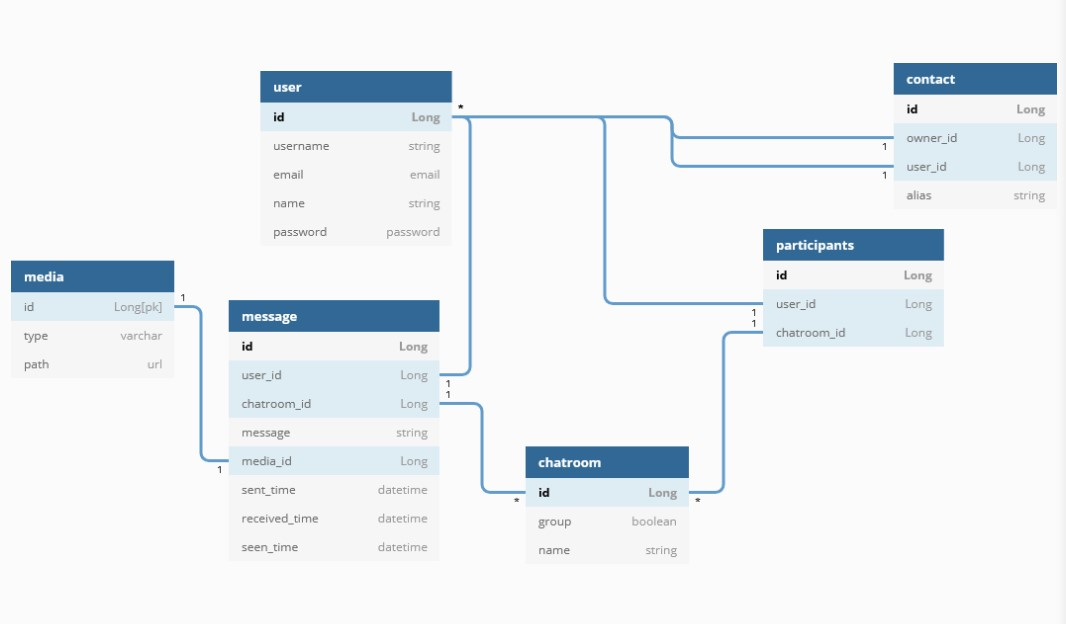
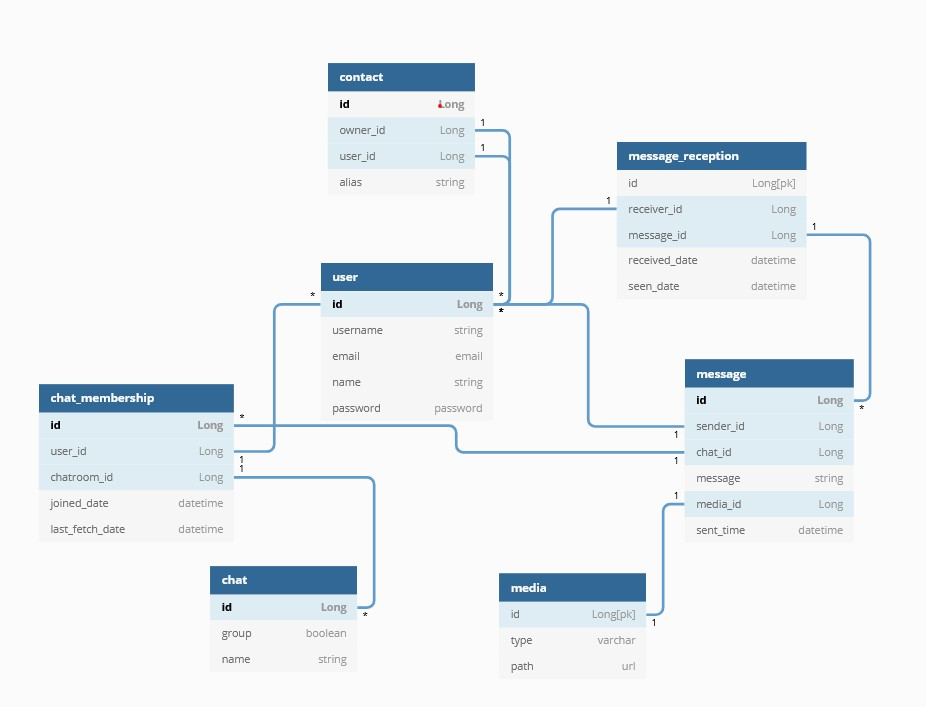
cambios menores

Changed region(s): [[0.0, 0.0609, 0.9978, 0.9439], [0.2419, 0.274, 0.3024, 0.3349], [0.2419, 0.3654, 0.3024, 0.3958]]

diff --git a/backend/nuntius/src/main/java/com/leandrosve/nuntius/service/MessageService.java b/backend/nuntius/src/main/java/com/leandrosve/nuntius/service/MessageService.java
@@ -1,16 +1,20 @@
 package com.leandrosve.nuntius.service;
 
 import java.util.ArrayList;
+import java.util.Date;
 import java.util.List;
 
 import com.leandrosve.nuntius.beans.MessageDTO;
+import com.leandrosve.nuntius.beans.MessageDetailsDTO;
 import com.leandrosve.nuntius.beans.MessageReceptionDTO;
 import com.leandrosve.nuntius.exception.AccessDeniedException;
 import com.leandrosve.nuntius.exception.chat.ChatNotFoundException;
 import com.leandrosve.nuntius.exception.message.MessageNotFoundException;
 import com.leandrosve.nuntius.model.Chat;
+import com.leandrosve.nuntius.model.ChatMembership;
 import com.leandrosve.nuntius.model.Message;
 import com.leandrosve.nuntius.model.User;
+import com.leandrosve.nuntius.repository.IChatMembershipRepository;
 import com.leandrosve.nuntius.repository.IChatRepository;
 import com.leandrosve.nuntius.repository.IMessageRepository;
 import com.leandrosve.nuntius.util.AuthUtil;
@@ -26,6 +30,10 @@ public class MessageService {
 
     @Autowired
     IChatRepository chatRepository;
+
+    
+    @Autowired
+    IChatMembershipRepository chatMembershipRepository;
 
     
     @Autowired
@@ -53,9 +61,16 @@ public class MessageService {
 
     public List<MessageDTO> getMessages(Long chatId){
         final User currentUser = authUtil.getCurrentUser(); 
-        final Chat chat = chatRepository.findById(chatId).orElseThrow(() -> new MessageNotFoundException());
+        final Chat chat = chatRepository.findById(chatId).orElseThrow(() -> new ChatNotFoundException());
         if(!chat.isUserMember(currentUser.getId())){throw new AccessDeniedException();};
-        final List<Message> messages = chat.getMessages();
+
+        ChatMembership membership = chat.getMembership(currentUser);      
+
+        membership.setLastFetchTime(new Date());
+        chatMembershipRepository.save(membership);
+
+       // final List<Message> messages = chat.getMessages();
+       final List<Message> messages = messageRepository.findAllByChatIdAndSentTimeLessThan(chatId, new Date());
         List<MessageDTO> messageDTOs = new ArrayList<MessageDTO>();
         if(messages != null && messages.size() > 0){
             messages.forEach((m) -> messageDTOs.add(mapToDTO(m)));
@@ -74,9 +89,11 @@ public class MessageService {
 
     public MessageDTO mapToDTO(Message message){
         MessageDTO messageDTO = new MessageDTO(message.getId(), message.getSender().getId(), message.getText(), message.getSentTime());
-        List<MessageReceptionDTO> details = new ArrayList<MessageReceptionDTO>();
-        message.getReceivers().forEach((mr) -> details.add(new MessageReceptionDTO(mr.getUser().getId(), mr.getSeenTime(), mr.getReceivedTime())));
-        messageDTO.setDetails(details);
+        List<MessageReceptionDTO> receptions = new ArrayList<MessageReceptionDTO>();
+        message.getReceivers().forEach((mr) -> receptions.add(new MessageReceptionDTO(mr.getUser().getId(), mr.getSeenTime(), mr.getReceivedTime())));
+        if(messageDTO.getUserId() == authUtil.getCurrentUser().getId()){
+            messageDTO.setDetails(new MessageDetailsDTO(receptions,message.isReceived(),message.isSeen()));
+        }
         return messageDTO;
     }
     

diff --git a/backend/nuntius/src/test/java/com/leandrosve/nuntius/NuntiusAppTests.java b/backend/nuntius/src/test/java/com/leandrosve/nuntius/NuntiusAppTests.java
@@ -2,9 +2,19 @@ package com.leandrosve.nuntius;
 
 import static org.junit.jupiter.api.Assertions.assertTrue;
 
+import java.util.ArrayList;
+import java.util.Date;
+import java.util.List;
+
+import com.leandrosve.nuntius.model.Chat;
+import com.leandrosve.nuntius.model.Message;
 import com.leandrosve.nuntius.model.User;
+import com.leandrosve.nuntius.repository.IChatRepository;
+import com.leandrosve.nuntius.repository.IMessageRepository;
 import com.leandrosve.nuntius.repository.IUserRepository;
 
+import org.junit.jupiter.api.BeforeAll;
+import org.junit.jupiter.api.BeforeEach;
 import org.junit.jupiter.api.Test;
 import org.springframework.beans.factory.annotation.Autowired;
 import org.springframework.boot.test.context.SpringBootTest;
@@ -15,7 +25,11 @@ import org.springframework.security.crypto.bcrypt.BCryptPasswordEncoder;
 class NuntiusAppTests {
 	
 	@Autowired
-	IUserRepository users;
+	IUserRepository userRepository;
+	@Autowired
+	IMessageRepository messageRepository;
+	@Autowired 
+	IChatRepository chatRepository;
 
 	@Autowired
 	BCryptPasswordEncoder encoder;
@@ -26,8 +40,26 @@ class NuntiusAppTests {
 		u.setEmail("leandro2@gmail.com");
 		u.setName("leandro2");
 		u.setPassword(encoder.encode("123456"));
-		User savedUser = users.save(u);
+		User savedUser = userRepository.save(u);
 		assertTrue(savedUser.getUsername().equals("leandro2"));
+	}
+
+	@BeforeEach
+    void setUpTestDataWithinTransaction() {
+		
+		Chat chat = new Chat(null, null, false, null);
+		chat.setId(420);
+		List<Message> messages = new ArrayList<Message>();
+		Message message = new Message(null, chat, "adasdasd");
+		messages.add(message);
+		chat.setMessages(messages);
+		chatRepository.save(chat);
+	}
+	
+	@Test
+	void getMessagesTest() {
+		List<Message> messages = messageRepository.findAllByChatIdAndSentTimeLessThan(420, new Date());
+		assertTrue(messages.size() > 0);
 	}
 
 }

diff --git a/backend/nuntius/src/main/java/com/leandrosve/nuntius/beans/MessageDetailsDTO.java b/backend/nuntius/src/main/java/com/leandrosve/nuntius/beans/MessageDetailsDTO.java
@@ -1,0 +1,21 @@
+package com.leandrosve.nuntius.beans;
+
+import java.util.List;
+
+public class MessageDetailsDTO {
+    private List<MessageReceptionDTO> receptions;
+        private boolean received = false;
+        private boolean seen = false;
+        public MessageDetailsDTO() {super();}
+        public MessageDetailsDTO(List<MessageReceptionDTO> receptions, boolean received, boolean seen) {
+            this.receptions = receptions;
+            this.received = received;
+            this.seen = seen;
+        }
+        public List<MessageReceptionDTO> getReceptions() {return receptions;}
+        public void setReceptions(List<MessageReceptionDTO> receptions) {this.receptions = receptions;}
+        public boolean isReceived() {return received;}
+        public void setReceived(boolean received) {this.received = received;}
+        public boolean isSeen() {return seen;}
+        public void setSeen(boolean seen) {this.seen = seen;}   
+}

diff --git a/backend/nuntius/src/main/java/com/leandrosve/nuntius/beans/MessageDTO.java b/backend/nuntius/src/main/java/com/leandrosve/nuntius/beans/MessageDTO.java
@@ -1,15 +1,14 @@
 package com.leandrosve.nuntius.beans;
 
 import java.util.Date;
-import java.util.List;
 
 public class MessageDTO {
+
     private long id;
     private long userId;
     private String text;
     private Date sentTime;
-
-    private List<MessageReceptionDTO> details;
+    private MessageDetailsDTO details;
 
 
     public long getId() {
@@ -57,12 +56,16 @@ public class MessageDTO {
         super();
     }
 
-    public List<MessageReceptionDTO> getDetails() {
+   
+    public MessageDetailsDTO getDetails() {
         return details;
     }
 
-    public void setDetails(List<MessageReceptionDTO> details) {
+    public void setDetails(MessageDetailsDTO details) {
         this.details = details;
     }
+
+
+
 
 }

diff --git a/backend/nuntius/src/main/java/com/leandrosve/nuntius/model/Message.java b/backend/nuntius/src/main/java/com/leandrosve/nuntius/model/Message.java
@@ -102,6 +102,24 @@ public class Message {
         this.receivers = receivers;
     }
 
+    public boolean isReceived(){
+        for(MessageReception r: receivers){
+            if(r.getReceivedTime() == null){
+                return false;
+            }
+        }
+        return true;
+    }
+
+    public boolean isSeen(){
+        for(MessageReception r: receivers){
+            if(r.getSeenTime() == null){
+                return false;
+            }
+        }
+        return true;
+    }
+
     
 
 }

diff --git a/backend/nuntius/src/main/java/com/leandrosve/nuntius/repository/IMessageRepository.java b/backend/nuntius/src/main/java/com/leandrosve/nuntius/repository/IMessageRepository.java
@@ -1,11 +1,17 @@
 package com.leandrosve.nuntius.repository;
 
+import java.util.Date;
+import java.util.List;
+
 import com.leandrosve.nuntius.model.Message;
 
+import org.springframework.data.domain.Sort;
 import org.springframework.data.jpa.repository.JpaRepository;
 import org.springframework.stereotype.Repository;
 
 @Repository
 public interface IMessageRepository extends JpaRepository<Message, Long>{
+
+    List<Message> findAllByChatIdAndSentTimeLessThan(long chatId, Date sentTime);
     
 }

diff --git a/backend/nuntius/src/main/java/com/leandrosve/nuntius/repository/IChatMembershipRepository.java b/backend/nuntius/src/main/java/com/leandrosve/nuntius/repository/IChatMembershipRepository.java
@@ -1,0 +1,12 @@
+package com.leandrosve.nuntius.repository;
+
+import com.leandrosve.nuntius.model.ChatMembership;
+
+import org.springframework.data.jpa.repository.JpaRepository;
+import org.springframework.stereotype.Repository;
+
+@Repository
+public interface IChatMembershipRepository extends JpaRepository<ChatMembership, Long>{
+
+    
+}

diff --git a/backend/nuntius/src/main/java/com/leandrosve/nuntius/model/Contact.java b/backend/nuntius/src/main/java/com/leandrosve/nuntius/model/Contact.java
@@ -26,7 +26,7 @@ public class Contact {
     @Size(max=128, message="{alias.toolong}")
     private String alias;
     
-    @ManyToOne(fetch = FetchType.EAGER, optional = false)
+    @ManyToOne(fetch = FetchType.LAZY, optional = false)
     @JoinColumn(name = "USER_ID")
     @NotNull(message = "{user.notfound}")
     private User user;

diff --git a/backend/nuntius/src/main/java/com/leandrosve/nuntius/model/Chat.java b/backend/nuntius/src/main/java/com/leandrosve/nuntius/model/Chat.java
@@ -118,7 +118,6 @@ public class Chat {
         if (memberships != null) {
             for (ChatMembership member : memberships) {
                 if (member.getUser() == user) {
-                    getMemberships().remove(member);
                     return member;
                 };
             }

diff --git a/backend/nuntius/src/main/java/com/leandrosve/nuntius/model/ChatMembership.java b/backend/nuntius/src/main/java/com/leandrosve/nuntius/model/ChatMembership.java
@@ -29,7 +29,7 @@ public class ChatMembership {
 
     private Date joinedTime;
 
-    private Date lastFetchTime;
+    private Date lastFetchTime = new Date();
 
     public Long getId() {
         return id;
